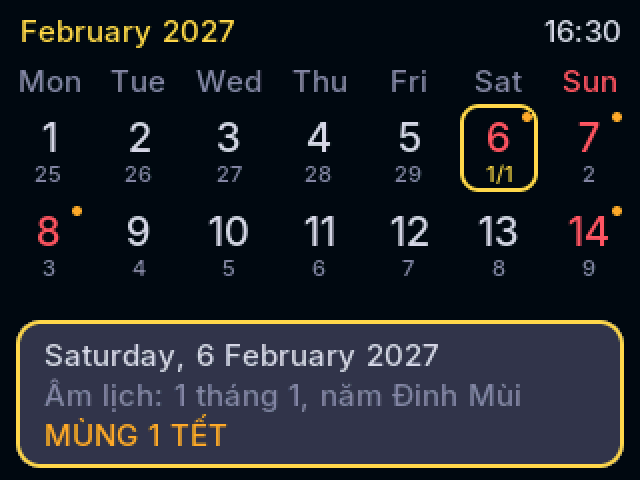
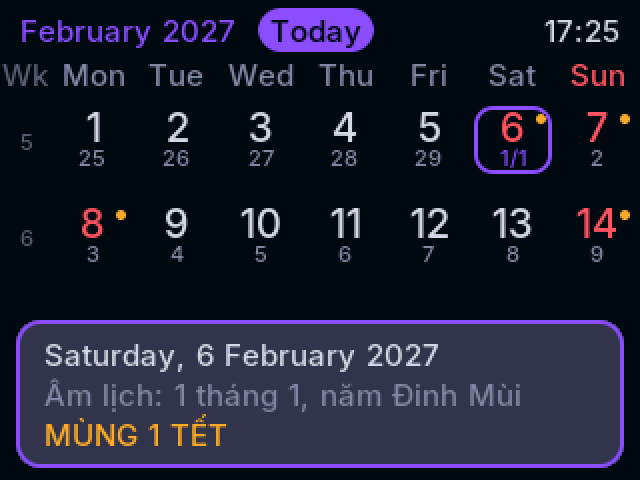
Calendar: week numbers, a Today button, clear spacing in 6-week months
- ISO 8601 week numbers in a narrow column on the left (this week's in the
  accent colour); cells 42 px wide.
- A Today pill next to the month in the title bar, filled while another
  month shows; it (or the title) comes back to this month.
- The day and the lunar date are placed by their baselines, 4 px apart and
  centred in the row, with today's box and the chosen day's ring around
  them: no longer touching in 6-week months.

diff --git a/src/display_manager.cpp b/src/display_manager.cpp
@@ -1556,12 +1556,28 @@ void DisplayManager::drawMeridiem() {
   s.deleteSprite();
 }
 
+constexpr int16_t kCalTodayW = 58, kCalTodayH = 22;  // the calendar's Today button
+
 void DisplayManager::drawScreenTitle(const char* title) {
   title_ = title;
   drawLine(0, 28, font_small, [&](TFT_eSprite& s) {
     s.setTextDatum(ML_DATUM);
     s.setTextColor(pal_.top, C->bg);
     s.drawString(title, 10, 15);
+    if (mode_ == Mode::Calendar) {
+      // Today: lit while another month shows.
+      calTodayX_ = 10 + s.textWidth(title) + 12;
+      const int16_t ty = 15 - kCalTodayH / 2;
+      if (calView_.away) {
+        s.fillSmoothRoundRect(calTodayX_, ty, kCalTodayW, kCalTodayH, kCalTodayH / 2, pal_.top, C->bg);
+      } else {
+        s.drawSmoothRoundRect(calTodayX_, ty, kCalTodayH / 2, kCalTodayH / 2 - 1, kCalTodayW, kCalTodayH,
+                              C->faint, C->bg);
+      }
+      s.setTextDatum(MC_DATUM);
+      s.setTextColor(calView_.away ? C->bg : C->dim, calView_.away ? pal_.top : C->bg);
+      s.drawString("Today", calTodayX_ + kCalTodayW / 2, 15);
+    }
     s.setTextDatum(MR_DATUM);
     s.setTextColor(C->text, C->bg);
     s.drawString(nowText_, kScreenW - 10, 15);
@@ -1636,9 +1652,12 @@ void DisplayManager::drawWeatherHeader() {
 }
 
 // The calendar: weekday names under the title bar, then the weeks.
-constexpr int16_t kCalHeadTop = 30, kCalHeadH = 20, kCalGridTop = kCalHeadTop + kCalHeadH;
-constexpr int16_t kCalGridH = kScreenH - kCalGridTop - 2;
-constexpr int16_t kCalCellW = 45, kCalX0 = (kScreenW - 7 * kCalCellW) / 2;
+// The week numbers in a narrow column on the left.
+constexpr int16_t kCalHeadTop = 29, kCalHeadH = 17, kCalGridTop = kCalHeadTop + kCalHeadH;
+constexpr int16_t kCalGridH = kScreenH - kCalGridTop - 1;
+constexpr int16_t kCalWeekW = 24, kCalCellW = 42;
+constexpr int16_t kCalX0 = (kScreenW - kCalWeekW - 7 * kCalCellW) / 2 + kCalWeekW;
+
 constexpr int16_t kCalCardX = 8, kCalCardW = kScreenW - 2 * kCalCardX;
 
 void DisplayManager::showCalendarScreen(const CalendarView& v) {
@@ -1649,11 +1668,13 @@ void DisplayManager::showCalendarScreen(const CalendarView& v) {
       s.setTextDatum(MC_DATUM);
       for (int c = 0; c < 7; ++c) {
         s.setTextColor(c == 6 ? C->error : C->dim, C->bg);
-        s.drawString(kDays[c], kCalX0 + c * kCalCellW + kCalCellW / 2, 10 - y0);
+        s.drawString(kDays[c], kCalX0 + c * kCalCellW + kCalCellW / 2, 8 - y0);
       }
+      s.setTextColor(theme::mix(C->faint, C->dim, 128), C->bg);
+      s.drawString("Wk", kCalX0 - kCalWeekW / 2, 8 - y0);
     });
   }
-  calView_ = v;
+  calView_ = v;  // (before the title: its Today button reads it)
   strlcpy(calTitle_, v.title, sizeof(calTitle_));
   drawScreenTitle(calTitle_);
   const int rows = constrain(v.rows, 4, 6);
@@ -1670,6 +1691,8 @@ void DisplayManager::showCalendarScreen(const CalendarView& v) {
     const int16_t y = kCalGridTop + row * rowH;
     return calCardY_ >= 0 && y < calCardY_ + calCardH_ + 2 && y + rowH > calCardY_ - 2;
   };
+  // The day (digits ~15 px high) and the lunar date (~8 px) 4 px apart, centred in the row.
+  const int16_t pad = (rowH - 27) / 2, dayBase = pad + 15, lunarBase = dayBase + 12;
   drawBlock(kCalGridTop, kCalGridH, font_date, [&](TFT_eSprite& s, int16_t y0) {
     s.setTextDatum(MC_DATUM);
     for (int pass = 0; pass < 2; ++pass) {  // the days in font_date, then the lunar dates in font_tiny
@@ -1686,13 +1709,15 @@ void DisplayManager::showCalendarScreen(const CalendarView& v) {
         const bool today = c.flags & CalendarCell::kToday;
         const uint16_t bg = today ? pal_.top : C->bg;
         if (pass == 0) {
+          // Today's box and the chosen day's ring: around the two numbers.
+          const int16_t by = top + max(0, pad - 3), bh = min<int16_t>(rowH, 33);
           if (today) {
-            s.fillSmoothRoundRect(cx - 19, top + 2, 38, rowH - 4, 9, pal_.top, C->bg);
+            s.fillSmoothRoundRect(cx - 19, by, 38, bh, 9, pal_.top, C->bg);
           } else if (i == v.selected) {
-            s.drawSmoothRoundRect(cx - 19, top + 2, 9, 8, 38, rowH - 4, pal_.top, C->bg);
+            s.drawSmoothRoundRect(cx - 19, by, 9, 8, 38, bh, pal_.top, C->bg);
           }
           if (in && (c.flags & CalendarCell::kHoliday)) {
-            s.fillSmoothCircle(cx + 14, top + 8, 2, today ? C->bg : C->warn, bg);
+            s.fillSmoothCircle(cx + 14, top + pad + 3, 2, today ? C->bg : C->warn, bg);
           }
           char n[4];
           snprintf(n, sizeof(n), "%u", c.day);
@@ -1701,7 +1726,8 @@ void DisplayManager::showCalendarScreen(const CalendarView& v) {
                                : (c.flags & CalendarCell::kHoliday) || i % 7 == 6      ? C->error
                                                                                        : C->text;
           s.setTextColor(ink, bg);
-          s.drawString(n, cx, top + rowH * 2 / 5);
+          s.setTextDatum(C_BASELINE);  // by the baselines: a clear gap even in 6-week months
+          s.drawString(n, cx, top + dayBase);
         } else {
           char n[8];
           const bool first = c.flags & CalendarCell::kLunarFirst;
@@ -1715,7 +1741,13 @@ void DisplayManager::showCalendarScreen(const CalendarView& v) {
                                : first ? pal_.top
                                        : C->dim;
           s.setTextColor(ink, bg);
-          s.drawString(n, cx, top + rowH * 4 / 5);
+          s.setTextDatum(C_BASELINE);
+          s.drawString(n, cx, top + lunarBase);
+          if (i % 7 == 0) {  // the week number
+            snprintf(n, sizeof(n), "%u", v.weeks[i / 7]);
+            s.setTextColor(i / 7 == v.todayRow ? pal_.top : theme::mix(C->faint, C->dim, 128), C->bg);
+            s.drawString(n, kCalX0 - kCalWeekW / 2, top + (dayBase + lunarBase) / 2 - 2);
+          }
         }
       }
     }
@@ -1735,7 +1767,7 @@ void DisplayManager::showCalendarScreen(const CalendarView& v) {
 
 int DisplayManager::calendarHitTest(int16_t x, int16_t y) const {
   if (mode_ != Mode::Calendar) return 0;
-  if (y < kCalHeadTop) return kCalendarTitle;
+  if (y < kCalHeadTop) return kCalendarToday;  // the button, or anywhere on the title
   if (calCardY_ >= 0 && y >= calCardY_ && y < calCardY_ + calCardH_) return 0;
   const int rows = constrain(calView_.rows, 4, 6);
   const int16_t rowH = kCalGridH / rows;

diff --git a/src/main.cpp b/src/main.cpp
@@ -587,6 +587,19 @@ int weekday(int y, int m, int d) {  // 0 Sunday (Sakamoto)
   return (y + y / 4 - y / 100 + y / 400 + t[m - 1] + d) % 7;
 }
 
+// ISO 8601 week number (weeks from Monday; week 1 holds the year's first Thursday).
+int isoWeek(int y, int m, int d) {
+  auto weeksIn = [](int year) {
+    auto p = [](int yy) { return (yy + yy / 4 - yy / 100 + yy / 400) % 7; };
+    return p(year) == 4 || p(year - 1) == 3 ? 53 : 52;
+  };
+  int doy = d;
+  for (int k = 1; k < m; ++k) doy += daysInMonth(y, k);
+  const int w = (doy - (weekday(y, m, d) + 6) % 7 + 9) / 7;
+  if (w < 1) return weeksIn(y - 1);
+  return w > weeksIn(y) ? 1 : w;
+}
+
 void showCalendar() {
   static const char* const kMonths[] = {"January", "February", "March",     "April",   "May",      "June",
                                         "July",    "August",   "September", "October", "November", "December"};
@@ -607,6 +620,8 @@ void showCalendar() {
   const int py = calMonth == 1 ? calYear - 1 : calYear, pm = calMonth == 1 ? 12 : calMonth - 1;
   const int prevDays = daysInMonth(py, pm);
   v.selected = -1;
+  v.todayRow = -1;
+  v.away = calYear != ty || calMonth != tmon;
   for (int i = 0; i < v.rows * 7; ++i) {
     int y = calYear, m = calMonth, d = i - first + 1;
     const bool in = d >= 1 && d <= days;
@@ -622,6 +637,8 @@ void showCalendar() {
     const lunar::Date l = lunar::fromSolar(d, m, y);
     const bool tet = l.month == 1 && !l.leap && l.day <= 3;
     CalendarCell& c = v.cells[i];
+    if (i % 7 == 0) v.weeks[i / 7] = isoWeek(y, m, d);
+    if (y == ty && m == tmon && d == td) v.todayRow = i / 7;
     c.day = d;
     c.lunarDay = l.day;
     c.lunarMonth = l.month;
@@ -911,7 +928,7 @@ void handleTouch() {
       if (screenOn == Screen::Settings) applySettingsAction(display.settingsHitTest(ev.at.x, ev.at.y));
       if (screenOn == Screen::Calendar) {
         const int hit = display.calendarHitTest(ev.at.x, ev.at.y);
-        if (hit == DisplayManager::kCalendarTitle) {
+        if (hit == DisplayManager::kCalendarToday) {
           calYear = calMonth = 0;  // back to this month
           calSelected = 0;
         } else {

diff --git a/src/display_manager.h b/src/display_manager.h
@@ -74,6 +74,9 @@ struct CalendarView {
   char title[24];  // "November 2026"
   uint8_t rows;    // weeks shown
   CalendarCell cells[42];
+  uint8_t weeks[6];  // ISO week numbers of the rows
+  int8_t todayRow;   // the row with today, -1: another month
+  bool away;         // another month than this one (the Today button lights up)
   int8_t selected;   // the cell whose card is open, -1: none
   char card[3][64];  // the card: date, lunar date, holiday ("" when none)
 };
@@ -175,8 +178,8 @@ class DisplayManager {
   int homeHitTest(int16_t x, int16_t y) const;  // tile index, or -1
   void showCalendarScreen(const CalendarView& v);
   // A day of the shown month (1-31), 0 elsewhere (other months' days, the card),
-  // kCalendarTitle for the title bar.
-  static constexpr int kCalendarTitle = -2;
+  // kCalendarToday for the Today button (or the title).
+  static constexpr int kCalendarToday = -2;
   int calendarHitTest(int16_t x, int16_t y) const;
 
   // Analog face instead of the digits; its right column's content.
@@ -295,6 +298,7 @@ class DisplayManager {
   CalendarView calView_ = {};
   char calTitle_[24] = "";
   int16_t calCardY_ = -1, calCardH_ = 0;  // the open card's place
+  int16_t calTodayX_ = 0;                 // the Today button's left edge
   HomeView homeView_ = {};
   bool homeValid_ = false;
   // Switch knobs: 0 left (off) to 1 right (on), sliding to their new place.

diff --git a/README.md b/README.md
@@ -121,14 +121,15 @@ low-precision formulas (`src/moon.*`): against the JPL ephemeris the lit fractio
 ### Calendar
 
 The **Calendar** screen (after Home in the swipe order) shows a month from
-Monday to Sunday, with the lunar date small under each day:
+Monday to Sunday, with the lunar date small under each day and the ISO week number of each
+week on the left (this week's in the accent colour):
 
 - **Today** is filled in the accent colour; Sundays and holidays are red, and holidays
   (including the first three days of Tết) have an amber dot.
 - The first day of each lunar month reads *day/month* in the accent colour (`1/10`), so the
   lunar months are easy to follow; days of the months around it are dimmed.
-- **Swipe up** for the next month and **down** for the previous one; **tap the title** to come
-  back to this month. It always opens on this month and moves to the next day at midnight.
+- **Swipe up** for the next month and **down** for the previous one; **Today** (next to the
+  month, lit while another month shows) comes back to this month. It always opens on this month and moves to the next day at midnight.
 - **Tap a day** for a card with its date in full, the lunar date with the year's name
   (*Âm lịch: 1 tháng 1, năm Đinh Mùi*) and its holiday. Tap it again (or anywhere else) to
   close it.

diff --git a/docs/ROADMAP.md b/docs/ROADMAP.md
@@ -125,8 +125,8 @@ speaker GPIO26, touch XPT2046 (CLK25 MOSI32 MISO39 CS33 IRQ36), SD (5/18/19/23).
 ## M15 – Extras
 - Lunar calendar (Âm lịch) ✅: the lunar date takes turns with the date; Mùng 1, Rằm, Tết
   and a Tết countdown.
-- Month calendar ✅: solar and lunar dates, holidays, today; swipe up/down for months, tap a
-  day for its card.
+- Month calendar ✅: solar and lunar dates, holidays, today, ISO week numbers; swipe up/down
+  for months, a Today button, tap a day for its card.
 - Holidays and festivals ✅: 9 solar and 7 lunar days on the date line.
 - Time on every screen ✅: title bars, forecast header, a pill on photos.
 - Analog face ✅: dial with a sweeping second hand, date column; Mix takes turns with the
